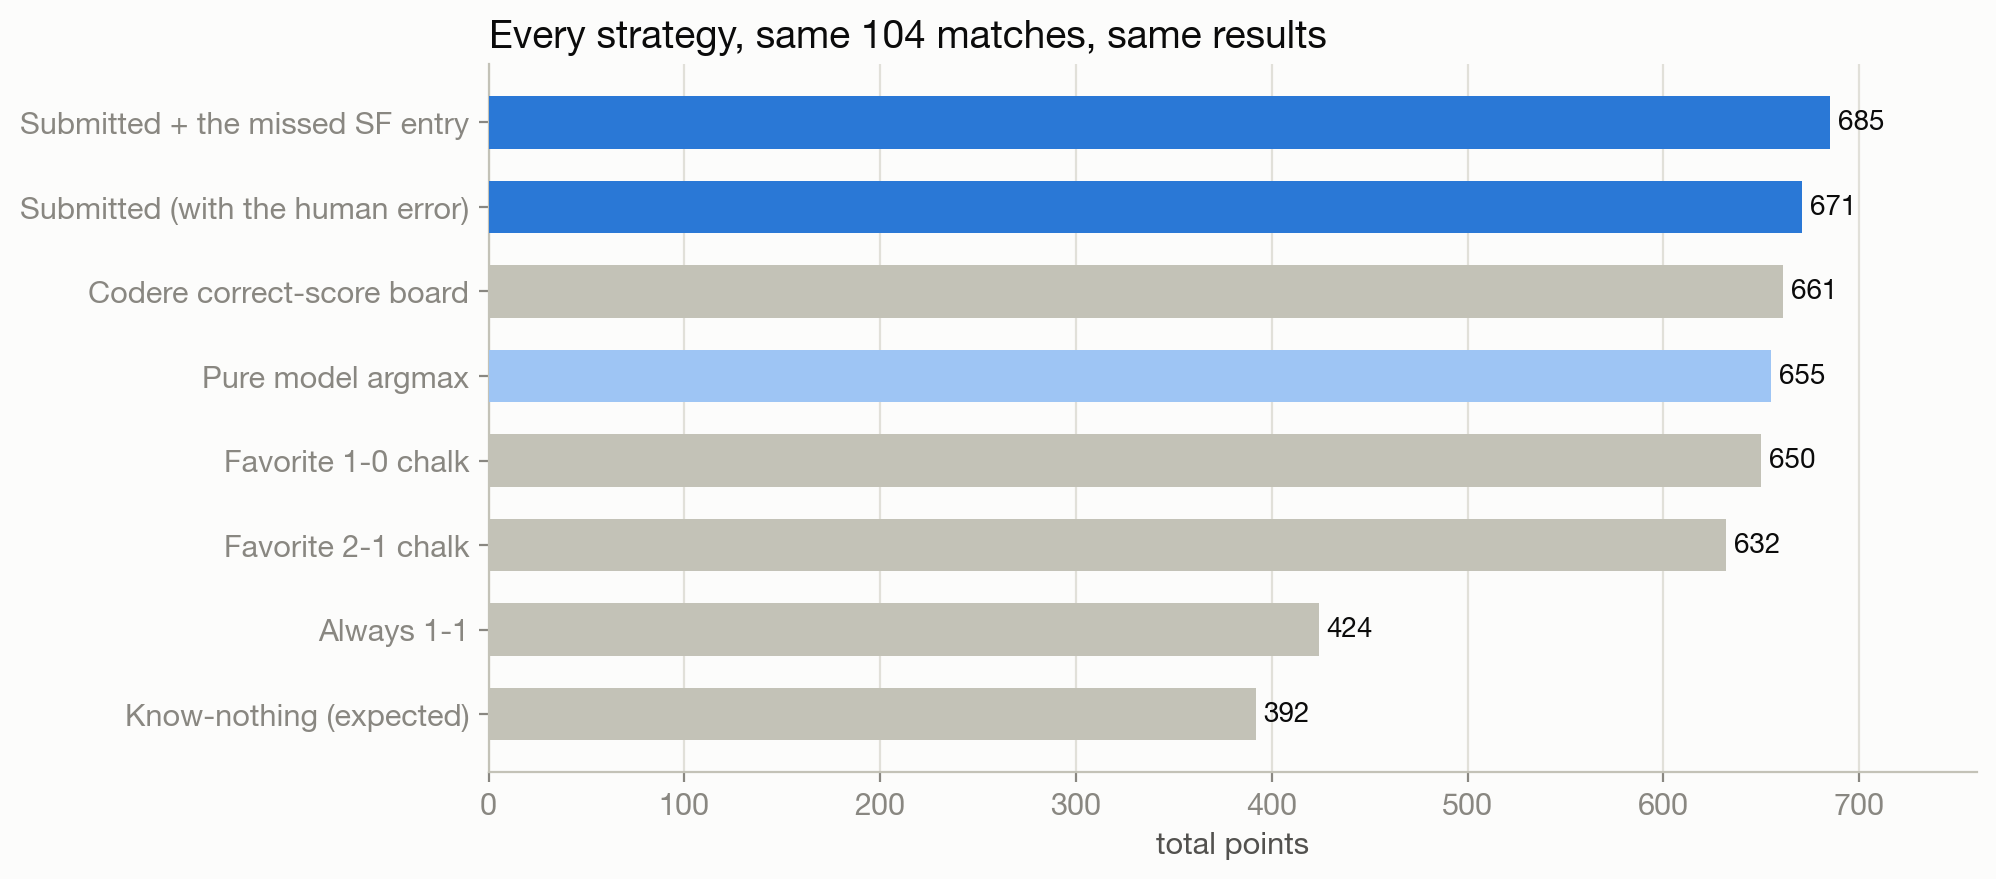
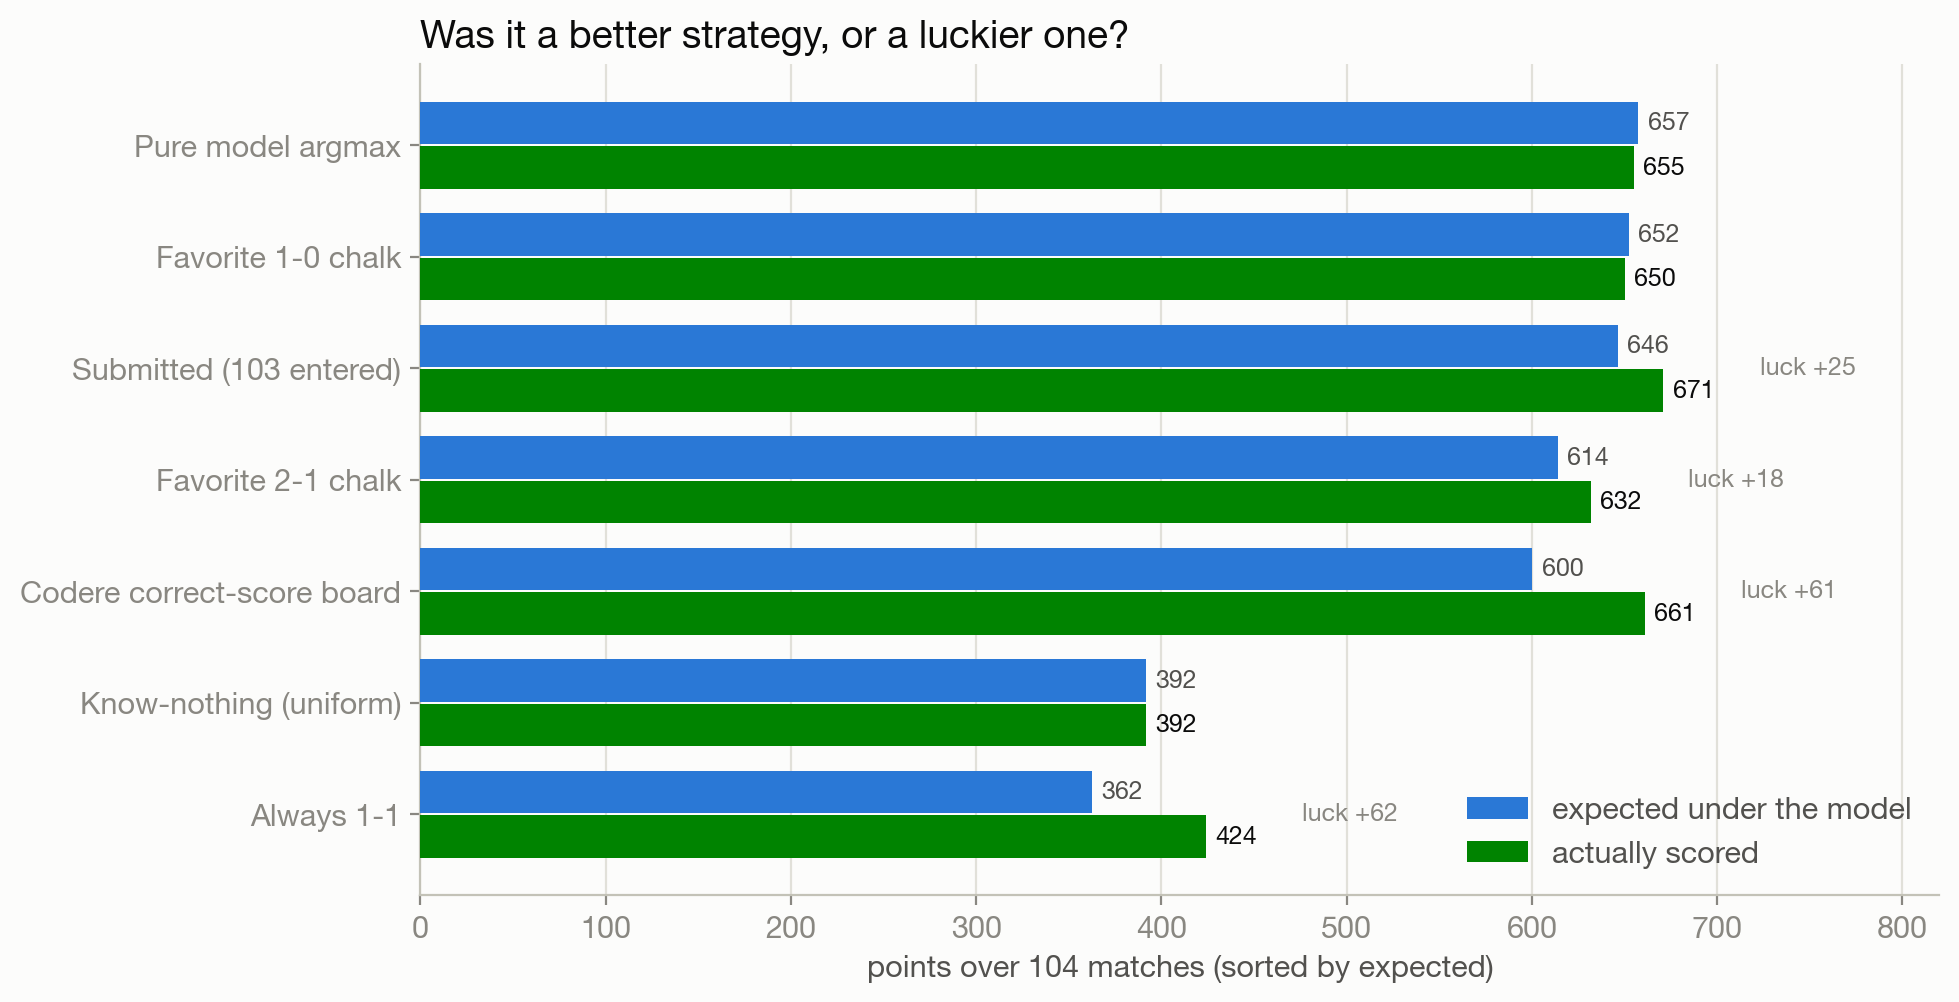
Analysis: add source-consensus test (r=0.9994) and correct strategy ranking to expected-vs-realized
The raw-total ranking implied copying the bookmaker's correct-score board beat
the model (661 vs 655). Scoring both under the model's own probabilities shows
the opposite: the cs board expected 600.3 and took +60.7 of luck, while argmax
expected 657.5. Ranking strategies by outcome in a single tournament was the
wrong comparison; both figures and the table now show expectation alongside it.

diff --git a/analysis/final_report.py b/analysis/final_report.py
@@ -134,9 +134,58 @@ cs_total = sum(score_points((int(crows[m["id"]]["cs_pred_home"]),
                              int(crows[m["id"]]["cs_pred_away"])),
                             m["actual"], knockout=m["ko"]) for m in matches)
 bots["Codere correct-score board"] = cs_total
+
+def ev_of(pick, M, ko):
+    return sum(M[i][j] * score_points(pick, (i, j), knockout=ko)
+               for i in range(11) for j in range(11))
+
+cs_pick = lambda m: (int(crows[m["id"]]["cs_pred_home"]), int(crows[m["id"]]["cs_pred_away"]))
+bot_defs = {
+    "Pure model argmax": lambda m: m["rp"].best_pred,
+    "Codere correct-score board": cs_pick,
+    "Favorite 1-0 chalk": lambda m: favorite_pick(m, 1, 0),
+    "Favorite 2-1 chalk": lambda m: favorite_pick(m, 2, 1),
+    "Always 1-1": lambda m: (1, 1),
+}
+# expected vs realized: separates "better strategy" from "got lucky"
+ev_table = {"Submitted (103 entered)": (mu_p, float(actual_total))}
+for name, f in bot_defs.items():
+    ev_table[name] = (sum(ev_of(f(m), m["M"], m["ko"]) for m in matches),
+                      float(bot_total(f)))
+ev_table["Know-nothing (uniform)"] = (mu_r, mu_r)
 print("\n== STRATEGY TOTALS (104 matches, real results) ==")
 for k, val in sorted(bots.items(), key=lambda t: -t[1]):
     print(f"  {k:36} {val:7.1f}")
+print("\n== EXPECTED vs REALIZED (was it a better strategy, or luckier?) ==")
+print(f"  {'strategy':32} {'E[pts]':>8} {'actual':>8} {'luck':>8}")
+for k, (e_, a_) in sorted(ev_table.items(), key=lambda t: -t[1][0]):
+    print(f"  {k:32} {e_:8.1f} {a_:8.0f} {a_ - e_:+8.1f}")
+
+# ------------------------------- 5. source agreement (the consensus test)
+P_, C_, agree_fav, same_pick = [], [], 0, 0
+cod_brier, poly_brier_local = [], []
+for m in matches:
+    c = crows[m["id"]]
+    rc = pick_from_raw(float(c["p_home"]), float(c["p_draw"]), float(c["p_away"]),
+                       ou_line=float(c["ou_line"]), p_over_raw=float(c["p_over"]),
+                       p_under_raw=float(c["p_under"]), knockout=m["ko"])
+    p3 = [m["rp"].p_home, m["rp"].p_draw, m["rp"].p_away]
+    c3 = [rc.p_home, rc.p_draw, rc.p_away]
+    P_ += p3; C_ += c3
+    agree_fav += int(np.argmax(p3) == np.argmax(c3))
+    same_pick += int(m["rp"].best_pred == rc.best_pred)
+    ah, aa = m["actual"]
+    o = [ah > aa, ah == aa, ah < aa]
+    cod_brier.append(sum((a_ - b_) ** 2 for a_, b_ in zip(c3, o)))
+    poly_brier_local.append(sum((a_ - b_) ** 2 for a_, b_ in zip(p3, o)))
+P_, C_ = np.array(P_), np.array(C_)
+r_sources = float(np.corrcoef(P_, C_)[0, 1])
+mad = float(np.abs(P_ - C_).mean())
+print("\n== SOURCE AGREEMENT (Polymarket exchange vs Codere bookmaker) ==")
+print(f"correlation r = {r_sources:.4f}   mean abs difference {100*mad:.2f} pp   "
+      f"max {100*np.abs(P_-C_).max():.2f} pp")
+print(f"agree on the favorite: {agree_fav}/104   model returns same pick: {same_pick}/104")
+print(f"Brier: Polymarket {np.mean(poly_brier_local):.4f}  Codere {np.mean(cod_brier):.4f}")
 
 # --------------------------------------------------- 4. calibration
 briers, unis = [], []
@@ -288,21 +337,47 @@ ax.set_yticks([])
 ax.grid(visible=False)
 save(fig, "03_skill_vs_luck.png")
 
-# F4: strategies scored on the real 104 results
-fig, ax = plt.subplots(figsize=(9.6, 4.6))
-order = sorted(bots.items(), key=lambda t: t[1])
-names = [k for k, _ in order]; vals = [v for _, v in order]
-colors = [BLUE if k.startswith("Submitted") else
-          LBLUE if "argmax" in k else AXIS for k in names]
-bars = ax.barh(names, vals, color=colors, height=0.62, zorder=3)
-for b, v in zip(bars, vals):
-    ax.text(v + 4, b.get_y() + b.get_height() / 2, f"{v:.0f}",
-            va="center", color=INK, fontsize=10, fontweight="bold")
+# F4: strategies, expected vs realized (separates skill from luck)
+fig, ax = plt.subplots(figsize=(9.8, 5.4))
+order = sorted(ev_table.items(), key=lambda t: t[1][0])
+names = [k for k, _ in order]
+exp_v = [v[0] for _, v in order]
+act_v = [v[1] for _, v in order]
+y = np.arange(len(names)); h = 0.38
+ax.barh(y + h / 2 + 0.01, exp_v, height=h, color=BLUE, zorder=3,
+        label="expected under the model")
+ax.barh(y - h / 2 - 0.01, act_v, height=h, color=GREEN, zorder=3,
+        label="actually scored")
+for yi, (e_, a_) in enumerate(zip(exp_v, act_v)):
+    ax.text(e_ + 5, yi + h / 2 + 0.01, f"{e_:.0f}", va="center",
+            color=SEC, fontsize=9)
+    ax.text(a_ + 5, yi - h / 2 - 0.01, f"{a_:.0f}", va="center",
+            color=INK, fontsize=9, fontweight="bold")
+    if abs(a_ - e_) >= 15:
+        ax.text(max(e_, a_) + 52, yi, f"luck {a_ - e_:+.0f}", va="center",
+                color=MUT, fontsize=9, style="italic")
+ax.set_yticks(y); ax.set_yticklabels(names)
 ax.grid(axis="y", visible=False)
-ax.set_xlim(0, 760)
-ax.set_title("Every strategy, same 104 matches, same results", loc="left", fontsize=14)
-ax.set_xlabel("total points")
+ax.set_xlim(0, 820)
+ax.legend(loc="lower right", frameon=False, labelcolor=SEC)
+ax.set_title("Was it a better strategy, or a luckier one?", loc="left", fontsize=14)
+ax.set_xlabel("points over 104 matches (sorted by expected)")
 save(fig, "04_strategies.png")
+
+# F6: the two sources agree (the consensus test)
+fig, ax = plt.subplots(figsize=(6.6, 6.2))
+ax.plot([0, .95], [0, .95], color=AXIS, lw=1.2, ls="--", zorder=2)
+ax.scatter(P_, C_, s=26, color=BLUE, alpha=0.55, zorder=3,
+           edgecolor=SURF, linewidth=0.5)
+ax.set_xlim(0, .95); ax.set_ylim(0, .95)
+ax.set_xlabel("Polymarket (peer-to-peer exchange)")
+ax.set_ylabel("Codere (traditional bookmaker)")
+ax.set_title("The same numbers, twice\n312 outcome probabilities, two independent sources",
+             loc="left", fontsize=13)
+ax.text(.05, .86, f"r = {r_sources:.4f}\nmean gap {100*mad:.2f} pp\n"
+                  f"same favorite {agree_fav}/104",
+        fontsize=10.5, color=SEC, va="top")
+save(fig, "06_consensus.png")
 
 # F5: reliability of the de-vigged probabilities
 fig, ax = plt.subplots(figsize=(6.4, 6.0))

diff --git a/ANALYSIS.md b/ANALYSIS.md
@@ -65,58 +65,112 @@ Two exact distributions, one axis:
 - Against the **real field**: among the 24 players whose final scores and
   podium picks were captured, 3 finished above 711 once the original rules are
   applied. Players outside that captured window cannot be ruled out (see the
-  blind-spot note in §6), so **4th is the best-supported position rather than a
+  blind-spot note in §7), so **4th is the best-supported position rather than a
   certified one**. The defensible claim is "top ~1% of 641."
 - Note what the field's own scores prove: the player who finished with the most
   **raw match points** (700, before any podium bonus) held a completely dead
   podium. At least five captured players out-scored this project on raw match
   points. The pool was not won by match-picking alone, and this project did not
-  win it there either (see §4 and §7).
+  win it there either (see §4 and §8).
 
-## 4. Every strategy, same matches, same results
+## 4. Every strategy: was it better, or just luckier?
 
 The shadow data makes honest baselines possible. Every strategy below is scored
-on the identical 104 real results.
+on the identical 104 real results. But raw totals are a trap, because one
+tournament is a single sample. So each strategy is shown twice: what it was
+*expected* to score under the model's probabilities, and what it *actually*
+scored. The gap is that strategy's luck.
 
 ![strategies](analysis/figures/04_strategies.png)
 
-| Strategy | Points | What it represents |
-|---|---:|---|
-| Submitted + the missed SF entry | **685** | the model and strategy, executed perfectly |
-| **Submitted (as it happened)** | **671** | what actually went to the scoreboard |
-| Codere correct-score board | 661 | "just copy the bookmaker's most likely score" |
-| Pure model argmax | 655 | the engine with no strategic overlay |
-| Favorite 1-0 chalk | 650 | a disciplined fan: favorite wins, 1-0, every time |
-| Favorite 2-1 chalk | 632 | the most common human instinct |
-| Always 1-1 | 424 | the draw troll |
-| Know-nothing (expected) | 392 | random scorelines |
+| Strategy | Expected | Actual | Luck |
+|---|---:|---:|---:|
+| Pure model argmax | **657.5** | 655 | −2.5 |
+| Favorite 1-0 chalk | 652.4 | 650 | −2.4 |
+| Submitted (103 entered) | 646.3 | **671** | +24.7 |
+| Favorite 2-1 chalk | 614.0 | 632 | +18.0 |
+| Codere correct-score board | 600.3 | 661 | **+60.7** |
+| Know-nothing (uniform) | 391.9 | 392 | +0.0 |
+| Always 1-1 | 362.3 | 424 | **+61.7** |
 
-Three honest observations:
+Sorting by expectation instead of by outcome changes the story completely:
 
+- **The model's argmax was the best per-match strategy available**, at 657.5
+  expected points, higher than every baseline. It underperformed its own
+  expectation by 2.5 points, which is noise.
+- **Copying the bookmaker's correct-score board did not beat the model.** It
+  finished with 661 actual against the model's 655, which looks like a win, but
+  it was expected to score only 600.3. It got **+60.7 points of luck**, the
+  largest windfall in the table. Picking the single most *likely* scoreline is
+  a genuinely worse strategy under a 5/2/2/1 rule than picking the
+  highest-*expected-value* scoreline, by roughly 57 points across a tournament.
+  This one tournament happened to reward it.
+- **"Always 1-1" got +61.7 of luck for the same reason.** The 2026 knockouts
+  were unusually draw-heavy (two doubled draws in the quarterfinals alone, and
+  a 0-0 final). Draw-shaped strategies were flattered by this specific
+  tournament and would be punished in most others.
 - **The per-match model's edge over a disciplined human is real but thin**:
-  argmax 655 versus favorite-1-0 chalk 650. Anyone who mechanically picked the
-  favorite 1-0 for a month would have finished near the top of this pool. The
-  model's per-match advantage comes from knowing *when* the favorite's modal
-  scoreline isn't 1-0 (totals-informed lambdas), worth about +5 over 104
-  matches. Nobody should sell that as alpha.
-- **The strategic overlay was worth +16** (671 versus 655), all of it from the
-  final four matches, where the objective switched from maximizing expected
-  points to maximizing P(top-3). That meant picking outcomes *correlated* with
-  the live podium slots instead of the most likely ones. The deviations went
-  3-for-3 on direction: needed Argentina, got it; needed England, got it;
-  needed Spain, got it.
-- **Execution is a strategy too.** The gap between 685 and 671 is one missed
-  phone entry, and it outweighed the entire per-match model edge.
+  657.5 expected versus 652.4 for mechanically picking the favorite 1-0 every
+  time. That is +5 points over 104 matches. Nobody should sell that as alpha.
+- **The submitted picks show a deliberate expectation sacrifice.** At 646.3
+  expected over 103 entries they sit *below* pure argmax, because the endgame
+  deviations knowingly traded expected points for P(top-3). They scored 671
+  anyway. The strategy was intentional; the +24.7 on top was variance.
 
-**The honest reading of this table**: a disciplined human with no model, who
-mechanically picked the favorite to win 1-0 in all 104 matches, scores 650.
-That is within 21 points of a machine that consumed live prediction-market data
-for five weeks. The model's advantage is real, reproducible, and *small*. What
-separated this project from that hypothetical human was not per-match accuracy.
-It was the podium bet (+40) and the endgame pivot (+16), neither of which is a
-football-knowledge problem.
+**The honest reading**: a disciplined human with no model, mechanically picking
+the favorite to win 1-0 in all 104 matches, was within 5 expected points of the
+machine. What separated this project from that hypothetical human was not
+per-match accuracy. It was the podium bet (+40) and the endgame pivot (+16),
+neither of which is a football-knowledge problem.
 
-## 5. Calibration: trusting the market was correct
+## 5. The probabilities are a commodity
+
+The two data sources in this repo could hardly be more different in mechanism.
+Polymarket is a peer-to-peer crypto exchange where strangers post real money
+against each other. Codere is a licensed Spanish bookmaker setting prices with
+a trading desk and a margin. They share no infrastructure and no incentive
+structure.
+
+They produced, for practical purposes, **the same numbers**.
+
+![consensus](analysis/figures/06_consensus.png)
+
+| Test | Result |
+|---|---|
+| Correlation across 312 de-vigged probabilities | **r = 0.9994** |
+| Mean absolute gap | **0.61 percentage points** |
+| Largest single disagreement in 104 matches | 2.80 pp |
+| Matches where they named a different favorite | **0 of 104** |
+| Matches where the model returned an identical pick from either feed | 101 of 104 |
+| Brier score | 0.5032 (Polymarket) vs 0.4995 (Codere) |
+
+Not once in 104 matches did the exchange and the bookmaker disagree about who
+was more likely to win. Their Brier scores differ by 0.004, which is nothing.
+This is what a global consensus looks like when you plot it: a straight line.
+
+Three consequences, and they cut in different directions:
+
+- **There is no secret probability.** These numbers were free, public, and
+  identical everywhere. Nobody in that pool of 641 was information-poor. Every
+  participant could have opened the same page.
+- **The model is therefore not where the edge lives**, and this project never
+  claimed otherwise. Feeding it either source produces the same pick 97% of the
+  time. Building the engine was a way to apply the consensus *consistently*,
+  not a way to improve on it. In that sense it really is, as the author put it,
+  mostly for fun.
+- **And yet the consensus alone is not sufficient**, which §4 proves. Codere
+  publishes its own correct-score favorite. Copying it blindly was 57 expected
+  points worse than converting the same probabilities into pool-optimal picks.
+  The consensus tells you what is *likely*. It does not tell you what to
+  *submit* under a 5/2/2/1-doubled rule with a top-3 payout, and it says
+  nothing at all about the two decisions that actually decided this
+  tournament.
+
+The edge was never informational. It was procedural: use the free consensus,
+convert it correctly for the scoring rule, do it 104 times without flinching,
+and change objective when the payout structure demands it.
+
+## 6. Calibration: trusting the market was correct
 
 ![calibration](analysis/figures/05_calibration.png)
 
@@ -137,7 +191,7 @@ built on them was built on rock.** The edge never came from disagreeing with
 the market. It came from *optimizing what the market doesn't care about*, which
 is the pool's scoring rule and payout structure.
 
-## 6. The two points
+## 7. The two points
 
 The money was missed by two points. The complete decomposition:
 
@@ -158,10 +212,10 @@ the differentiated pick would have cashed. Lesson recorded: *in any endgame,
 enumerate everyone within maximum-remaining-bonus of the cut, not everyone you
 can see.*
 
-## 7. What this project actually demonstrates
+## 8. What this project actually demonstrates
 
 - **Markets are calibrated, so use them.** Free, sharp probability estimates
-  beat anything an individual can produce (§5).
+  beat anything an individual can produce (§5 and §6).
 - **The edge is in the scoring rule, not the probabilities.** Optimizing
   5/2/2/1-doubled expected value is not the same as predicting the most likely
   score (§4).
@@ -172,7 +226,7 @@ can see.*
   tails. A strategy that finishes 4th repeatably will sometimes lose to
   someone's hot month, and that is the correct trade.
 - **Process beats model.** The single largest controllable loss was not a
-  probability estimate. It was a save button (§6).
+  probability estimate. It was a save button (§7).
 
 ---
 